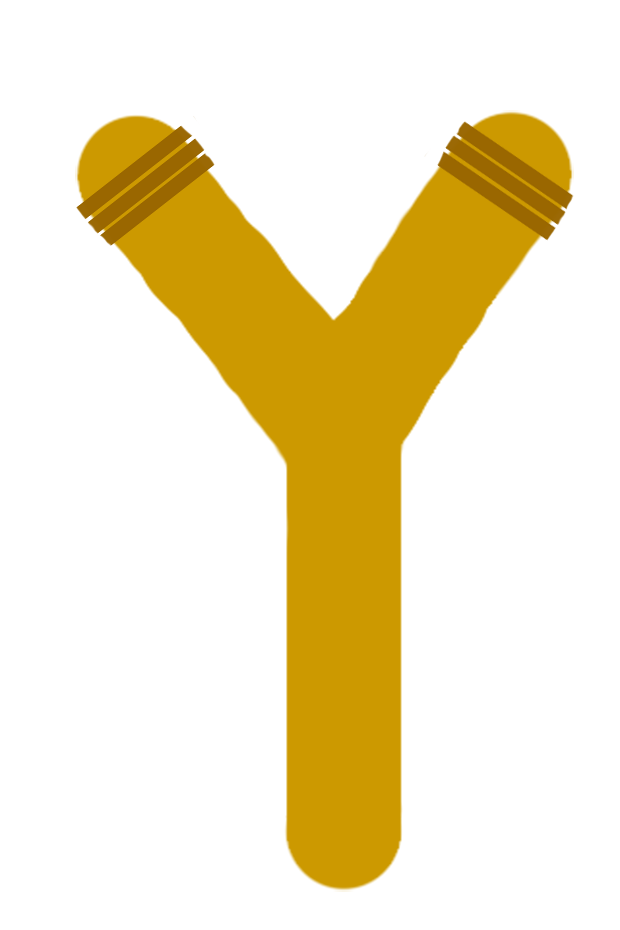
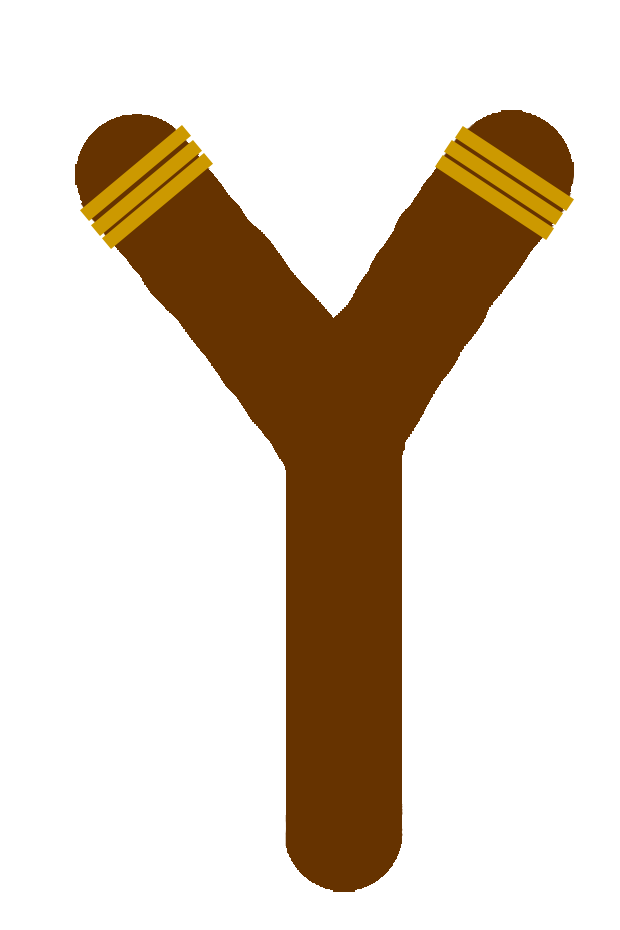
achanged button size, changed rubber mat

Changed region(s): [[0.1226, 0.0935, 0.95, 0.9667]]

diff --git a/Assets/scripts/Rubber.cs b/Assets/scripts/Rubber.cs
@@ -9,7 +9,7 @@ public class Rubber : MonoBehaviour {
 
     //reference to moving ball
     public Shot shot;
-
+    public Color color;
     public LineRenderer lr;
 
     public void Init(Vector3 start, Shot shot)
@@ -20,6 +20,8 @@ public class Rubber : MonoBehaviour {
         this.gameObject.SetActive(true);
         lr.SetPosition(0, startPos);
         lr.SetPosition(1, shot.transform.position);
+        lr.startColor = color;
+        lr.endColor = color;
     }
 
 	// Update is called once per frame
